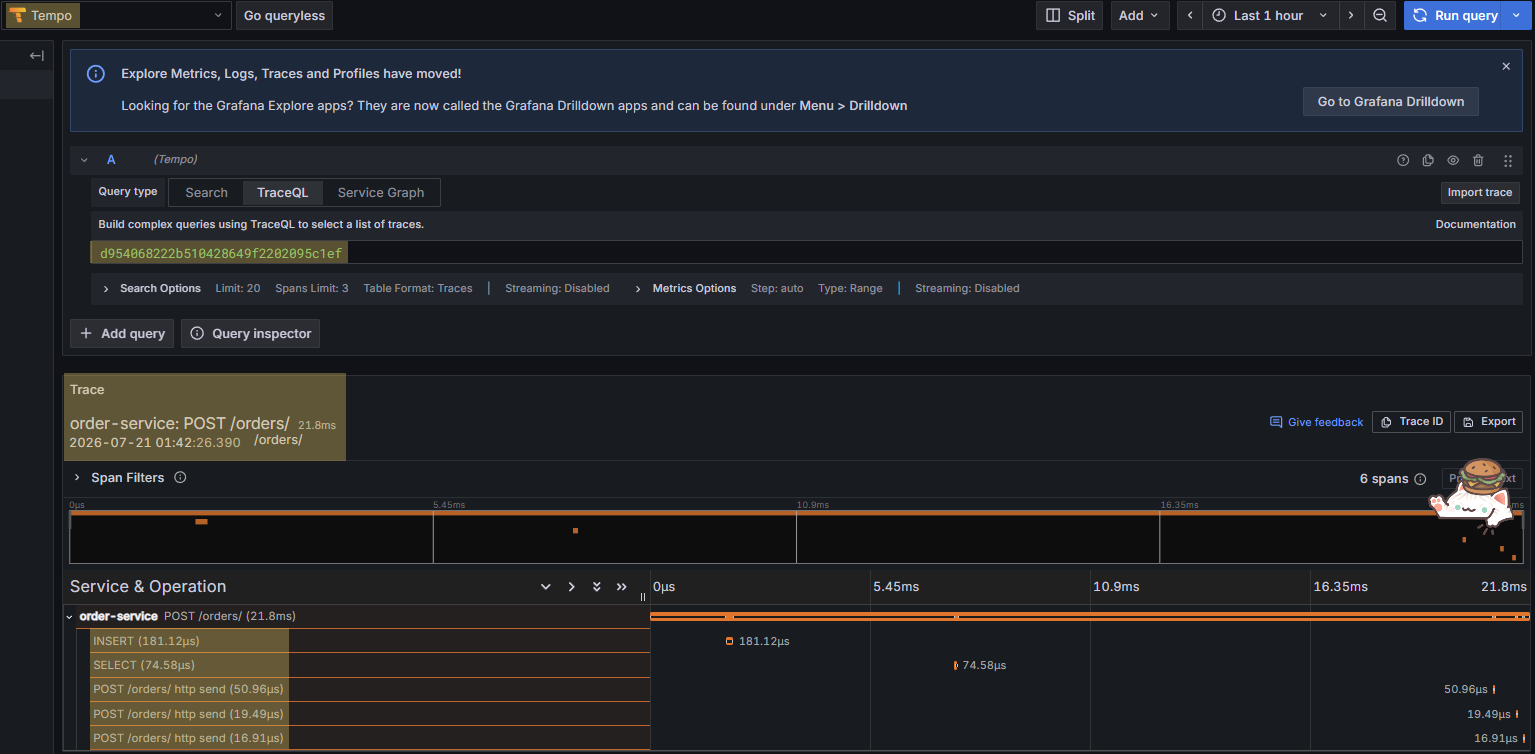
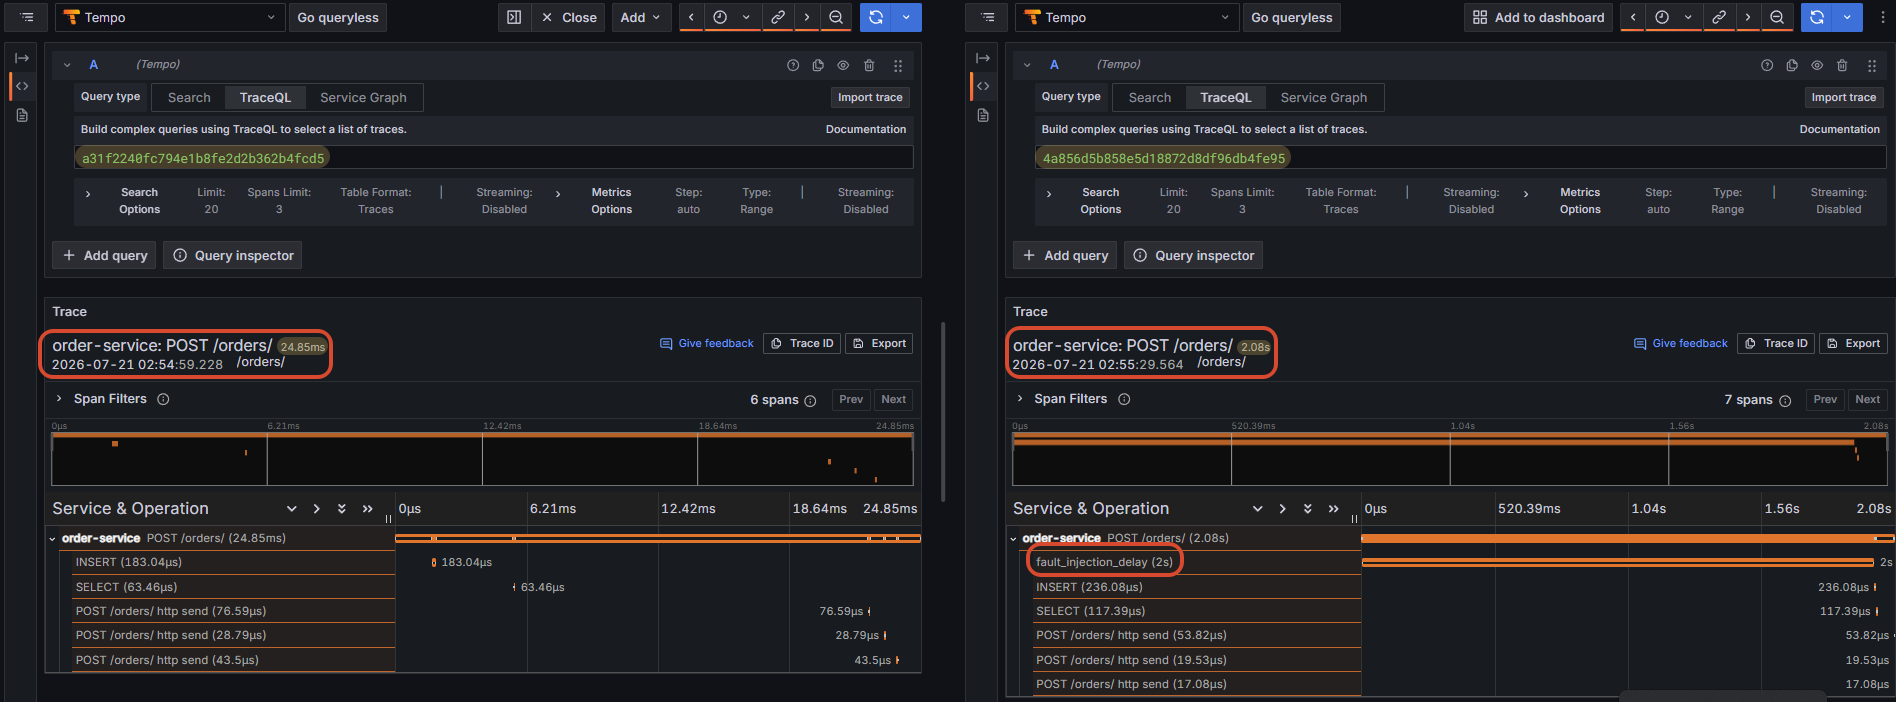
update somethings

diff --git a/docs/Observability-Platform-Validation.md b/docs/Observability-Platform-Validation.md
@@ -248,6 +248,7 @@ sequenceDiagram
 
 ![PNG](../assets/png/alerting-phase3_01.png)
 
+
 </ul>
 </details>
 
@@ -282,7 +283,6 @@ sequenceDiagram
 ```
 
 ![PNG](../assets/png/alerting-phase4_01.png)
-![PNG](../assets/png/alerting-phase4_02.png)
 
 </ul>
 </details>
@@ -290,11 +290,14 @@ sequenceDiagram
 <br><br>
 
 ### *C.　End-to-End RCA Pipeline Statistics*
+
+#### *[🎬　Demo Video](https://drive.google.com/file/d/1c4Una19CtaNZ09phAXH8quAlsWBEGjel/view?usp=sharing)*
+
 | **Phase** | **Metric** | **Definition** | **Time<br>Measurement** |
 |:--|:--:|:--|--:|
-| *P2. Detection* | *MTTD* | *Mean Time To Detect<br>( 從故障注入到 AlertManager 發出通知 )* | *- sec* |
-| *P3. Analysis* | *MTTI* | *Mean Time To Identify<br>( 從收到告警到在 Tempo 定位 Flame Graph )* | *- sec* |
-| *P4. Recovery* | *MTTR* | *Mean Time To Recover<br>( 從執行修復指令到 Grafana 指標恢復 )* | *- sec* |
-| *Total* | *TTR* | *Total Time to Resolution* | *- sec* |
+| *P2. Detection* | *MTTD* | *Mean Time To Detect<br>( 從故障注入到 AlertManager 發出通知 )* | *40 sec* |
+| *P3. Analysis* | *MTTI* | *Mean Time To Identify<br>( 從收到告警到在 Tempo 定位 Flame Graph )* | *5 sec* |
+| *P4. Recovery* | *MTTR* | *Mean Time To Recover<br>( 從執行修復指令到 Grafana 指標恢復 )* | *40 sec* |
+| *Total* | *TTR* | *Total Time to Resolution* | *85 sec* |
 
 <br><br><br>